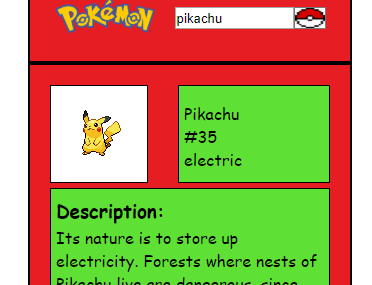
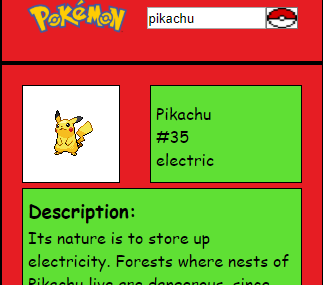
edited the styling a bit added some routing links

diff --git a/src/components/header/index.js b/src/components/header/index.js
@@ -5,24 +5,24 @@ import './index.css';
 
 const Header = () => {
     return (
-        <div>
+        <div className="header-container">
             <img className="logo" src={ require("../../assets/logo.png") } alt="Jake Howlett" />
             <nav className="nav-span-container">
-                <span className="nav-span">
-                    <Link to="/" className="link">
+                <div className="nav-span">
+                    <Link to="/" className="header-link">
                         Home
                     </Link>
-                </span>
-                <span className="nav-span">
-                    <Link to="/cv" className="link">
+                </div>
+                <div className="nav-span">
+                    <Link to="/cv" className="header-link">
                         CV
                     </Link>
-                </span>
-                <span className="nav-span">
-                    <Link to="/contact" className="link">
+                </div>
+                <div className="nav-span">
+                    <Link to="/contact" className="header-link">
                         Contact
                     </Link>
-                </span>
+                </div>
             </nav>
         </div>
     );

diff --git a/src/components/cards/index.css b/src/components/cards/index.css
@@ -1,24 +1,36 @@
 .card-container {
     display: flex;
-    flex-direction: column;
     align-items: center;
+}
+
+.card-link {
+    color: black;
+    text-decoration: none;
 }
 
 .card {
     border-radius: 25px;
-    padding-bottom: 0px;
+    width: 210px;
     margin-top: 20px;
-    background-color: white;
-    color: rgb(56, 68, 75);
+    margin-right: 30px;
+    border-color: rgb(7, 7, 7);
     text-align: center;
+    background-color: rgb(64, 179, 162);
+    box-shadow: 4px 4px 5px 0px rgba(50, 50, 50, 0.75);
+}
+
+.card:hover {
+    transform: scale(1.05)
 }
 
 .card-title {
     margin-bottom: 5px;
+    font-size: 30px;
 }
 
 .card-subtitle {
     margin: 0 0 10px 0;
+    color: black;
 }
 
 .card-image {
@@ -27,5 +39,26 @@
     border-radius: 25px;
     border: solid;
     border-width: 1px 0 0 0;
+    filter: saturate(80%);
 }
 
+@media only screen and (min-width: 500px) {
+    .card-container {
+        flex-direction: row;
+        flex-wrap: wrap;
+        
+    }
+}
+
+@media only screen and (min-width: 1000px) {
+    .card {
+        width: 350px;
+    }
+
+    .card-image {
+        width: 340px;
+        height: 400px;
+    }
+
+
+}

diff --git a/src/components/header/index.css b/src/components/header/index.css
@@ -1,5 +1,13 @@
+.header-container {
+    display: flex;
+    flex-direction: column;
+}
+
 .logo {
-    width: 200px
+    width: 200px;
+    border-radius: 25px;
+    display: block;
+    margin: 0 auto;
 }
 
 .nav-span-container {
@@ -7,14 +15,34 @@
     justify-content: space-between;
     border-bottom: solid;
     border-width: 1px;
+    border-color: rgb(255, 125, 95)
 }
 
-.nav-span {
-    
-}
-
-.link {
-    color: white;
+.header-link {
+    color: black;
     text-decoration: none;
     font-weight: bold;
+    font-size: 20px
+}
+
+@media only screen and (min-width: 500px) {
+    .header-container {
+        flex-direction: row;
+    }
+
+    .logo {
+        margin: 0;
+    }
+
+    .nav-span-container {
+        border: none;
+        flex-direction: column;
+        justify-content: left;
+        padding-top: 0px;
+        align-content: flex-start; 
+    }
+
+    .nav-span {
+        padding: 10px 0 10px 50px;
+    }
 }

diff --git a/src/components/cards/currentProjectCard/index.js b/src/components/cards/currentProjectCard/index.js
@@ -1,12 +1,15 @@
 import React from 'react';
+import { Link } from 'react-router-dom';
 
 const CurrentProjectCard = () => {
     return (
-        <div className="card">
-            <h3 className="card-title">React-redux course</h3>
-            <p className="card-subtitle">React Redux</p>
-            <img className="card-image" src={ require("../../../assets/current-project-thumbnail.png") } alt="current Project" />
-        </div>
+        <Link to='/current-project' className="card-link">
+            <div className="card">
+                <h3 className="card-title">Current Project</h3>
+                <p className="card-subtitle">placeholder text and image</p>
+                <img className="card-image" src={ require("../../../assets/current-project-thumbnail.png") } alt="current Project" />
+            </div>
+        </Link>
     );
 };
 

diff --git a/src/components/cards/movieSearchCard/index.js b/src/components/cards/movieSearchCard/index.js
@@ -1,12 +1,15 @@
 import React from 'react';
+import { Link } from 'react-router-dom';
 
 const MovieSearchCard = () => {
     return (
-        <div className="card">
-            <h3 className="card-title">OMDb searcher</h3>
-            <p className="card-subtitle">React Redux(thunk)</p>
-            <img className="card-image" src={ require("../../../assets/movie-search-thumbnail.png") } alt="Movie search project" />
-        </div>
+        <Link to='/movie-search' className="card-link">
+            <div className="card">
+                <h3 className="card-title">OMDb searcher</h3>
+                <p className="card-subtitle">React Redux(thunk)</p>
+                <img className="card-image" src={ require("../../../assets/movie-search-thumbnail.png") } alt="Movie search project" />
+            </div>
+        </Link>
     );
 };
 

diff --git a/src/components/cards/smashDownCard/index.js b/src/components/cards/smashDownCard/index.js
@@ -1,12 +1,15 @@
 import React from 'react';
+import { Link } from 'react-router-dom';
 
 const SmashdownCard = () => {
     return (
-        <div className="card">
-            <h3 className="card-title">Smashdown tracker</h3>
-            <p className="card-subtitle">JS jQuery CSS HTML</p>
-            <img className="card-image" src={ require("../../../assets/smashdown-thumbnail.png") } alt="Smashdown project" />
-        </div>
+        <Link to='/smashdown' className="card-link">
+            <div className="card">
+                <h3 className="card-title">Smashdown tracker</h3>
+                <p className="card-subtitle">JS jQuery CSS HTML</p>
+                <img className="card-image" src={ require("../../../assets/smashdown-thumbnail.png") } alt="Smashdown project" />
+            </div>
+        </Link>
     );
 };
 

diff --git a/src/components/cards/pokedexCard/index.js b/src/components/cards/pokedexCard/index.js
@@ -1,12 +1,15 @@
 import React from 'react';
+import { Link } from 'react-router-dom';
 
 const PokedexCard = () => {
     return (
-        <div className="card">
-            <h3 className="card-title">PokeAPI Pokedex</h3>
-            <p className="card-subtitle">JS HTML CSS</p>
-            <img className="card-image" src={ require("../../../assets/pokedex-thumbnail.png") } alt="Pokedex project" />
-        </div>
+        <Link to='/pokedex' className="card-link">
+            <div className="card">
+                <h3 className="card-title">PokeAPI Pokedex</h3>
+                <p className="card-subtitle">JS HTML CSS</p>
+                <img className="card-image" src={ require("../../../assets/pokedex-thumbnail.png") } alt="Pokedex project" />
+            </div>
+        </Link>
     );
 };
 

diff --git a/src/index.css b/src/index.css
@@ -1,5 +1,8 @@
+@import url('https://fonts.googleapis.com/css?family=Open+Sans&display=swap');
+
 body {
-    background-color: rgb(56, 68, 75);
-    margin-left: 5%;
-    margin-right: 5%;
+    background-color: rgba(109, 172, 153, 0.705);
+    font-family: 'Open Sans', sans-serif;
+    color: black;
+    margin: 2% 5% 0% 5%;
 }

diff --git a/src/components/projects/currentProject/index.js b/src/components/projects/currentProject/index.js
@@ -1,0 +1,9 @@
+import React from 'react';
+
+const CurrentProject = () => {
+    return (
+        <div>Current Project</div>
+    )
+}
+
+export default CurrentProject;

diff --git a/src/components/app.css b/src/components/app.css
@@ -1,4 +1,3 @@
 .container {
     height: 100vh;
-    color: white;
 }
